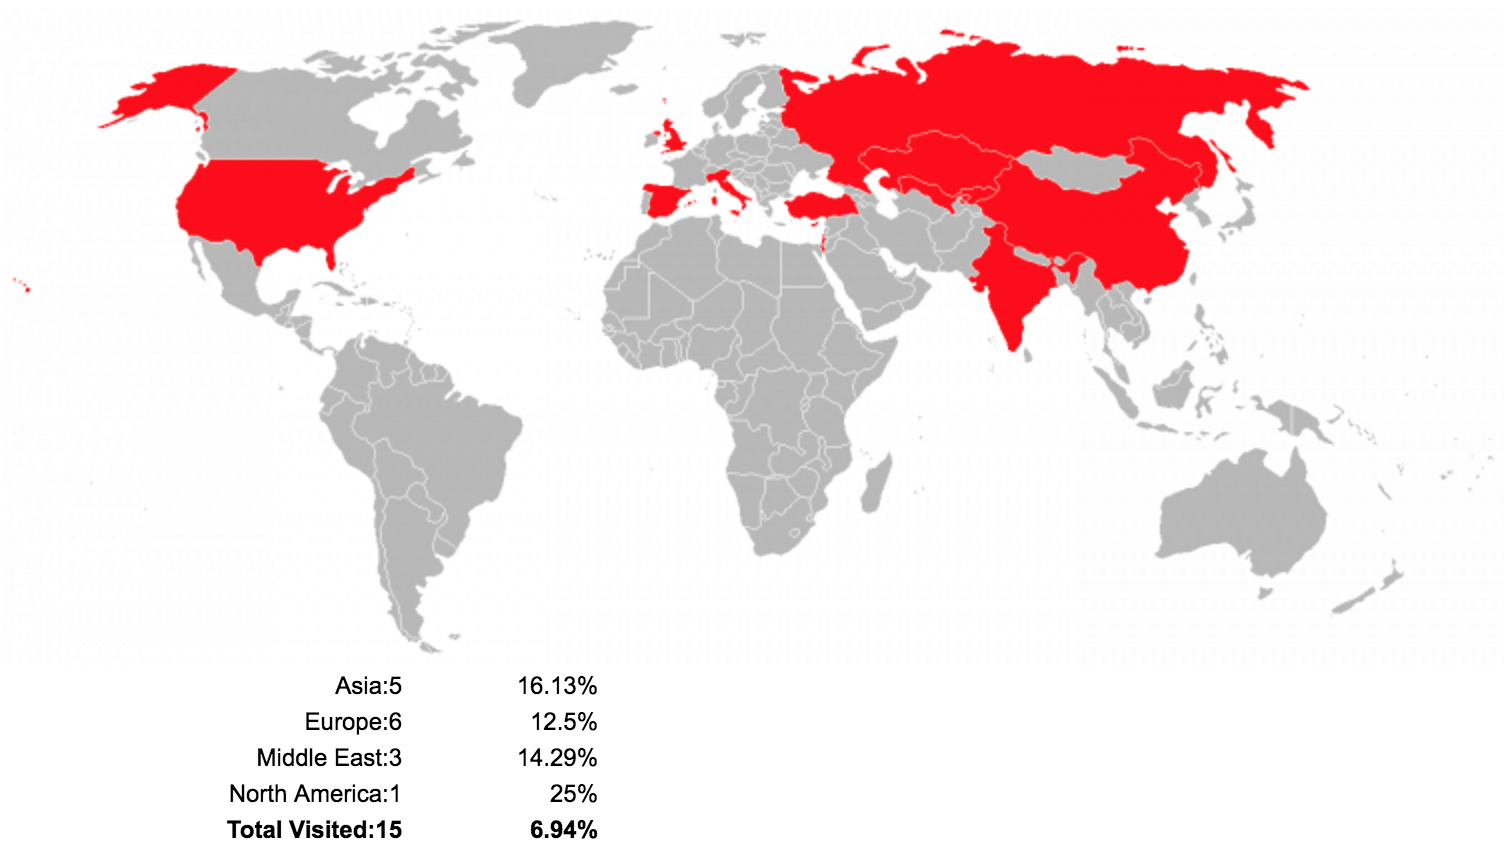
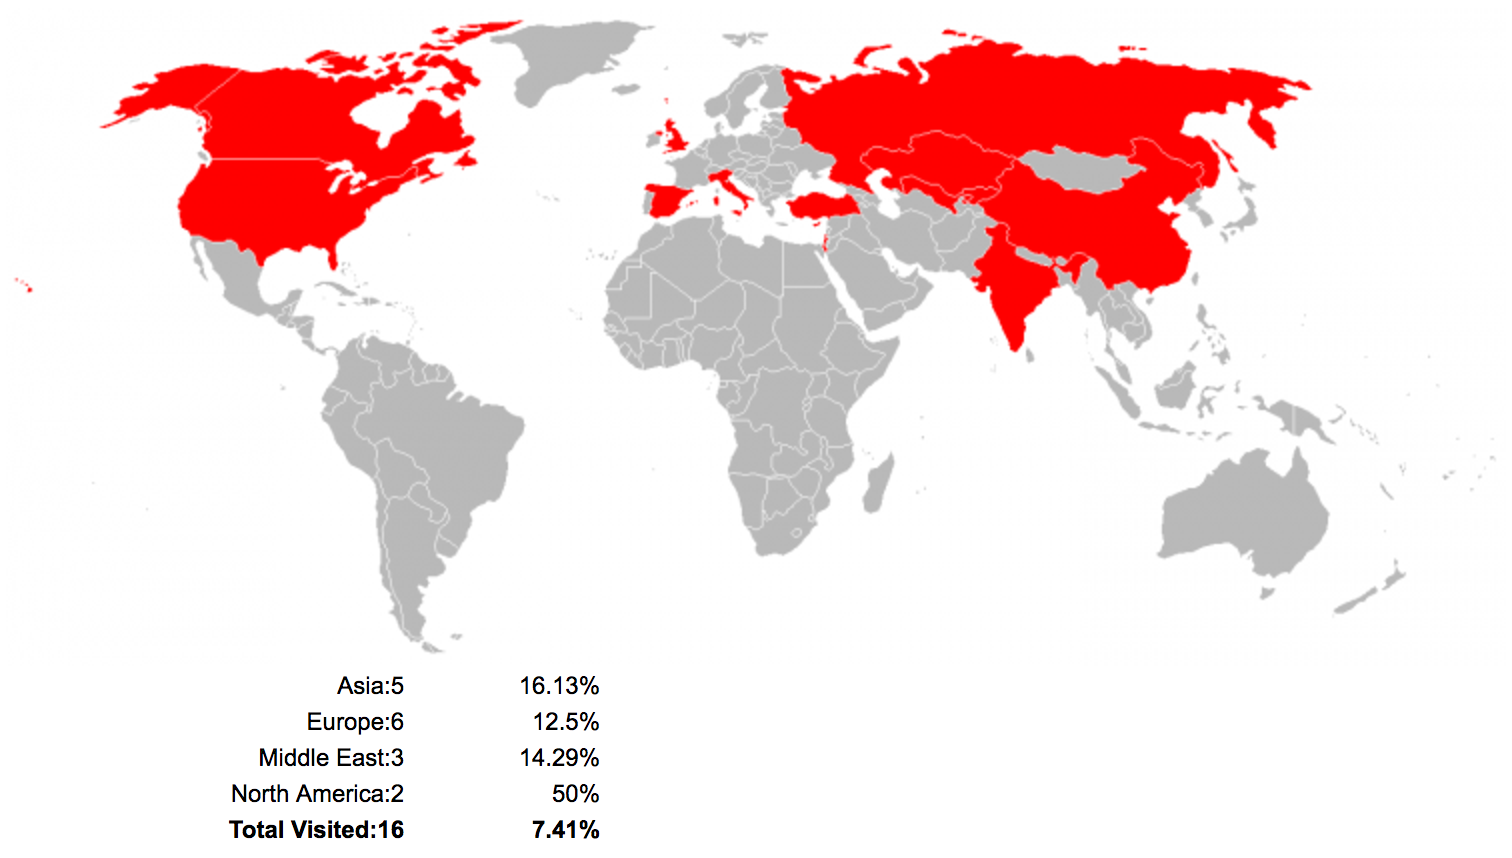
Add info about Canada

diff --git a/_posts/2016-03-13-countries-i-have-visited.md b/_posts/2016-03-13-countries-i-have-visited.md
@@ -14,8 +14,9 @@ related_posts:
 
 \* *via [traveltip.org/countries_visited.php](https://traveltip.org/countries_visited.php)*
 
-Last updated on 30.10.2016.
+Last updated on 24.04.2017.
 
+* Canada
 * China
 * Cyprus
 * Hong Kong
